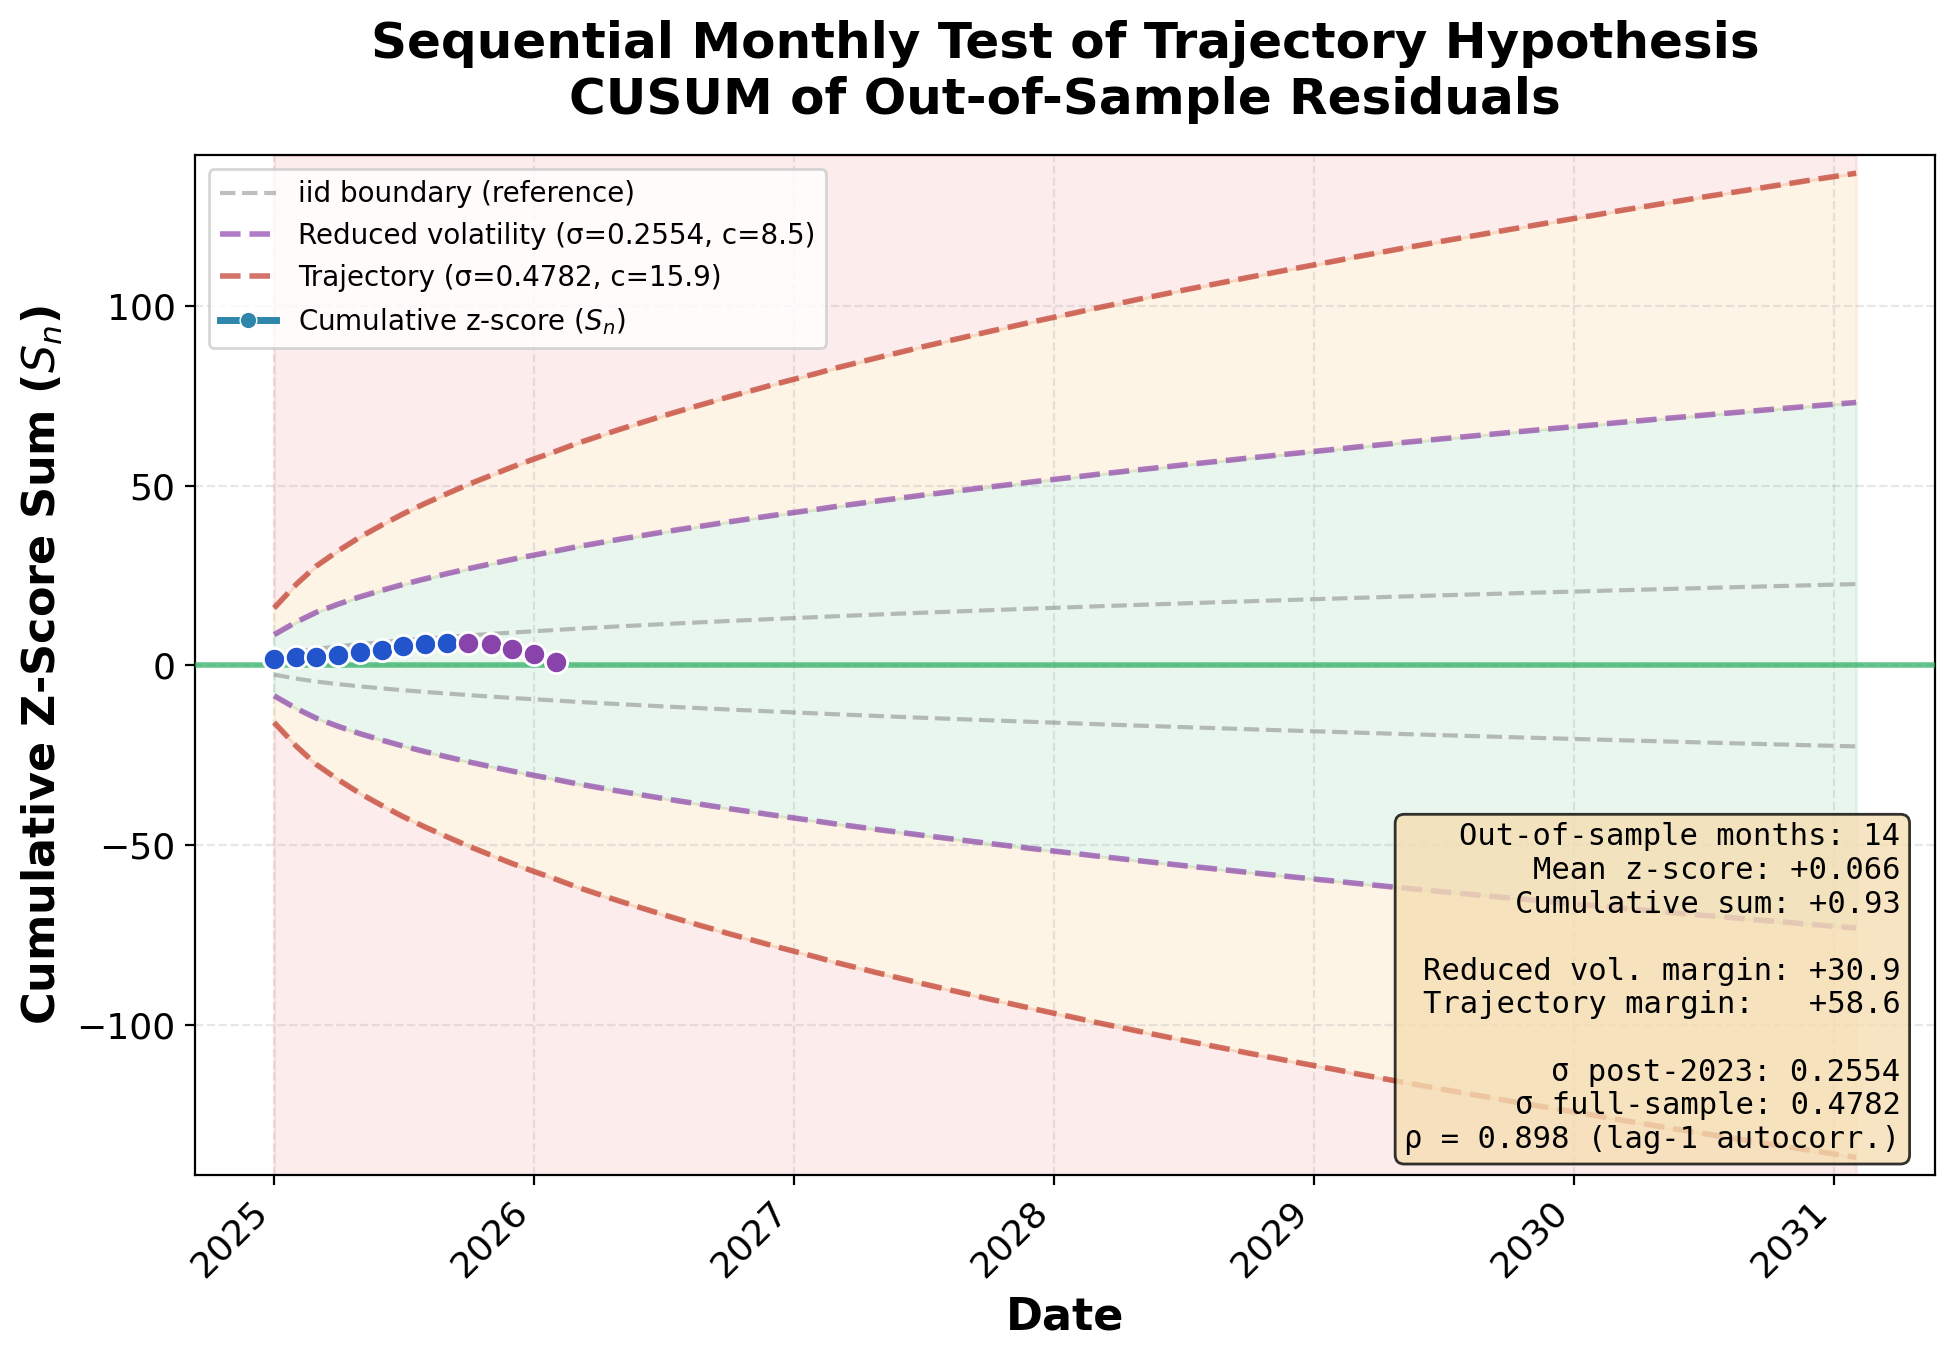
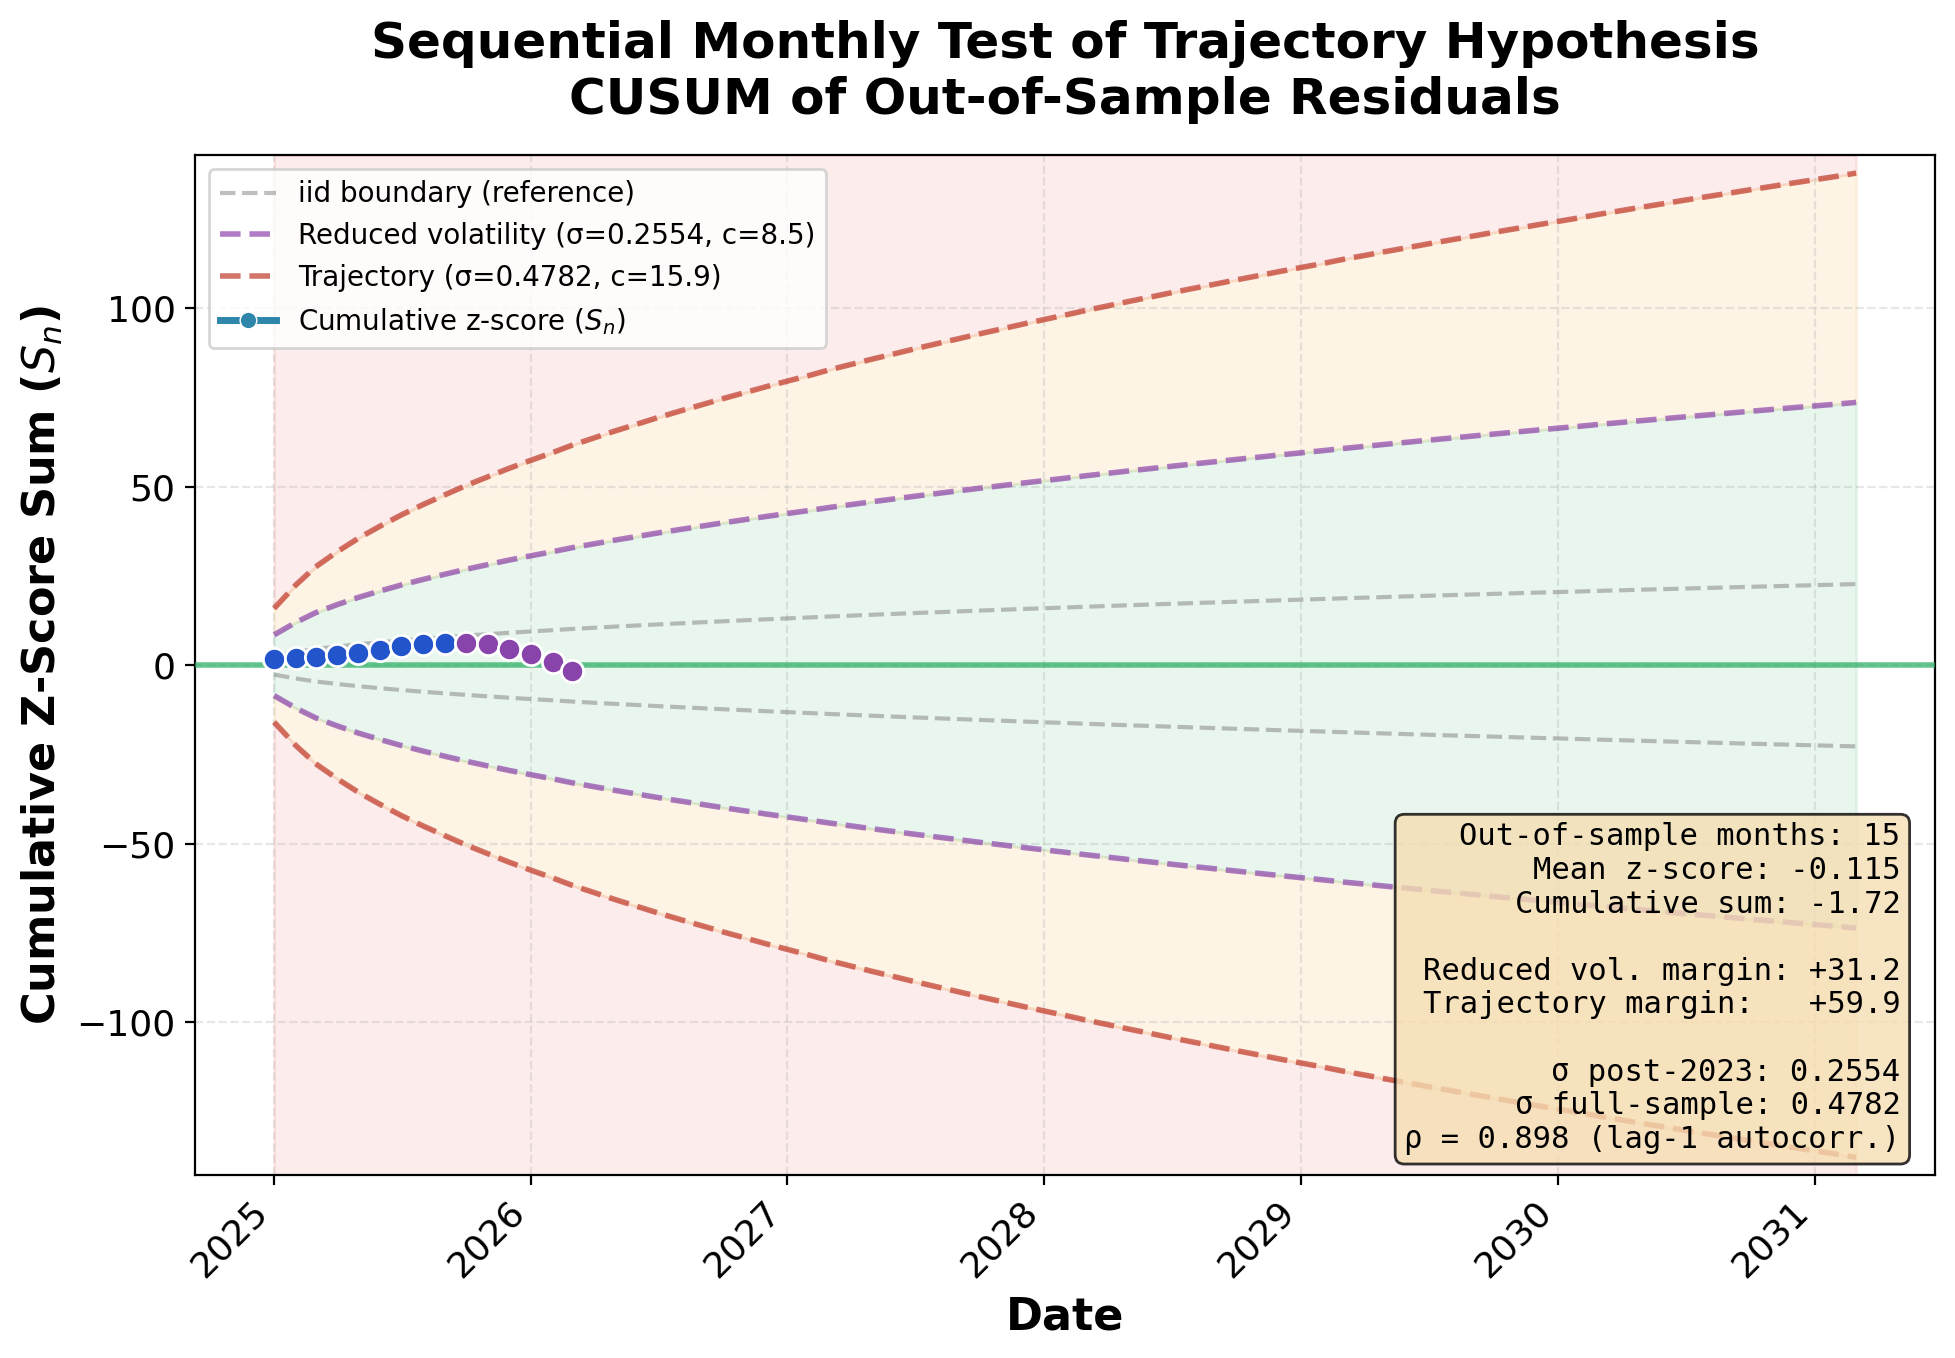
Auto-aggregate monthly CUSUM data from daily prices
Monthly observations for the sequential test previously required manual
CSV entry. Added update_monthly_from_daily() which auto-appends missing
months from the daily price log on each run. March 2026 now included.

diff --git a/index.html b/index.html
@@ -35,11 +35,11 @@
 
 <h1>Bitcoin's Gold Price</h1>
 
-<img src="dashboard_ratio.png?v=1775087034" alt="Bitcoin priced in ounces of gold">
+<img src="dashboard_ratio.png?v=1775087934" alt="Bitcoin priced in ounces of gold">
 
 <table class="price-table">
   <tr><th>Gold (USD/oz), COMEX</th><th>Bitcoin (USD)</th><th>Bitcoin's Gold Price</th><th>Date</th><th>Updated</th></tr>
-  <tr><td>$4,818</td><td>$68,130</td><td>14.1 oz</td><td>2026-04-01</td><td>2026-04-01 23:43 UTC</td></tr>
+  <tr><td>$4,808</td><td>$68,072</td><td>14.2 oz</td><td>2026-04-01</td><td>2026-04-01 23:58 UTC</td></tr>
 </table>
 
 
@@ -57,15 +57,15 @@
 <h2>Live Model Scorecard</h2>
 <table>
   <tr><th>Metric</th><th>Value</th></tr>
-  <tr><td>Out-of-sample months</td><td>14</td></tr>
-  <tr><td>Latest monthly z-score</td><td>-2.22</td></tr>
-  <tr><td>Cumulative sum (S<sub>n</sub>)</td><td>+0.93</td></tr>
-  <tr><td>Reduced volatility margin</td><td>+30.9</td></tr>
-  <tr><td>Trajectory margin</td><td>+58.6</td></tr>
+  <tr><td>Out-of-sample months</td><td>15</td></tr>
+  <tr><td>Latest monthly z-score</td><td>-2.65</td></tr>
+  <tr><td>Cumulative sum (S<sub>n</sub>)</td><td>-1.72</td></tr>
+  <tr><td>Reduced volatility margin</td><td>+31.2</td></tr>
+  <tr><td>Trajectory margin</td><td>+59.9</td></tr>
   <tr><td>Status</td><td class="status">Green &mdash; Both hypotheses supported</td></tr>
 </table>
 
-<img src="dashboard_cusum.png?v=1775087034" alt="CUSUM scorecard with rejection boundaries">
+<img src="dashboard_cusum.png?v=1775087934" alt="CUSUM scorecard with rejection boundaries">
 
 <details>
 <summary><strong>Zone definitions</strong></summary>
@@ -87,7 +87,7 @@
 </details>
 
 <div class="footer">
-  <p>Last updated: 2026-04-01 23:43 UTC</p>
+  <p>Last updated: 2026-04-01 23:58 UTC</p>
   <p>Data: BTC-USD and Gold futures (closing prices) via Yahoo Finance.</p>
   <p><a href="bitcoin_gold_biggs.pdf">Paper (PDF)</a> |
      <a href="bitcoin_gold_Biggs_(20260127).html">Paper (HTML)</a> |

diff --git a/update_dashboard.py b/update_dashboard.py
@@ -145,6 +145,66 @@ def fetch_prices():
 # MONTHLY DATA (for CUSUM)
 # ============================================================================
 
+def update_monthly_from_daily(daily_df):
+    """Auto-aggregate missing monthly observations from daily prices.
+
+    For each complete month not already in the monthly CSVs, take the last
+    trading day's prices and append to btc_gold_update.csv.
+    """
+    if daily_df is None or daily_df.empty:
+        return
+
+    # Load all existing monthly dates
+    existing_months = set()
+    for path in [TRAINING_CSV, TEST_CSV, UPDATE_CSV]:
+        if path.exists():
+            df = pd.read_csv(path)
+            df['Date'] = pd.to_datetime(df['Date'])
+            for d in df['Date']:
+                existing_months.add((d.year, d.month))
+
+    # Determine which months in daily data are complete (i.e. we're past them)
+    daily = daily_df.copy()
+    daily['Date'] = pd.to_datetime(daily['Date'])
+    today = datetime.now()
+
+    # Group daily data by year-month
+    daily['ym'] = daily['Date'].dt.to_period('M')
+    new_rows = []
+
+    for period, group in daily.groupby('ym'):
+        yr, mo = period.year, period.month
+        # Only process months that are complete (current month is incomplete)
+        if (yr, mo) >= (today.year, today.month):
+            continue
+        # Only process months not already in the monthly CSVs
+        if (yr, mo) in existing_months:
+            continue
+        # Take the last trading day of the month
+        last_day = group.sort_values('Date').iloc[-1]
+        new_rows.append({
+            'Date': f'{yr:04d}-{mo:02d}',
+            'USD_per_Gold_oz': round(float(last_day['USD_per_Gold_oz']), 2),
+            'USD_per_Bitcoin': round(float(last_day['USD_per_Bitcoin']), 2),
+            'Gold_oz_per_Bitcoin': round(
+                float(last_day['USD_per_Bitcoin']) / float(last_day['USD_per_Gold_oz']), 8
+            ),
+        })
+
+    if new_rows:
+        new_df = pd.DataFrame(new_rows)
+        if UPDATE_CSV.exists():
+            existing = pd.read_csv(UPDATE_CSV)
+            combined = pd.concat([existing, new_df], ignore_index=True)
+        else:
+            combined = new_df
+        combined.to_csv(UPDATE_CSV, index=False)
+        months_added = ', '.join(r['Date'] for r in new_rows)
+        print(f"  Auto-added monthly observations: {months_added}")
+    else:
+        print("  No new monthly observations to add.")
+
+
 def load_monthly_data():
     """Load all monthly data from training + test + update CSVs."""
     frames = []
@@ -547,15 +607,19 @@ def main():
     print("\n1. Fetching daily prices...")
     daily_df = fetch_prices()
 
-    # 2. Load monthly data and compute CUSUM
-    print("\n2. Computing CUSUM from monthly data...")
+    # 2. Auto-aggregate any missing monthly observations from daily data
+    print("\n2. Updating monthly data from daily prices...")
+    update_monthly_from_daily(daily_df)
+
+    # 3. Load monthly data and compute CUSUM
+    print("\n3. Computing CUSUM from monthly data...")
     monthly_df = load_monthly_data()
     oos_df = compute_oos_cusum(monthly_df)
     if not oos_df.empty:
         print(f"  {len(oos_df)} out-of-sample months, S_n = {oos_df['cusum'].iloc[-1]:+.2f}")
 
-    # 3. Generate plots
-    print("\n3. Generating plots...")
+    # 4. Generate plots
+    print("\n4. Generating plots...")
     create_ratio_plot(daily_df, SITE / 'dashboard_ratio.png')
     cusum_path = SITE / 'dashboard_cusum.png'
     if datetime.now().day == 1 or not cusum_path.exists():
@@ -564,8 +628,8 @@ def main():
     else:
         print("  Skipping CUSUM plot (only updates on the 1st).")
 
-    # 4. Generate HTML
-    print("\n4. Generating HTML...")
+    # 5. Generate HTML
+    print("\n5. Generating HTML...")
     generate_html(oos_df, daily_df, SITE / 'index.html')
 
     print("\nDone.")
